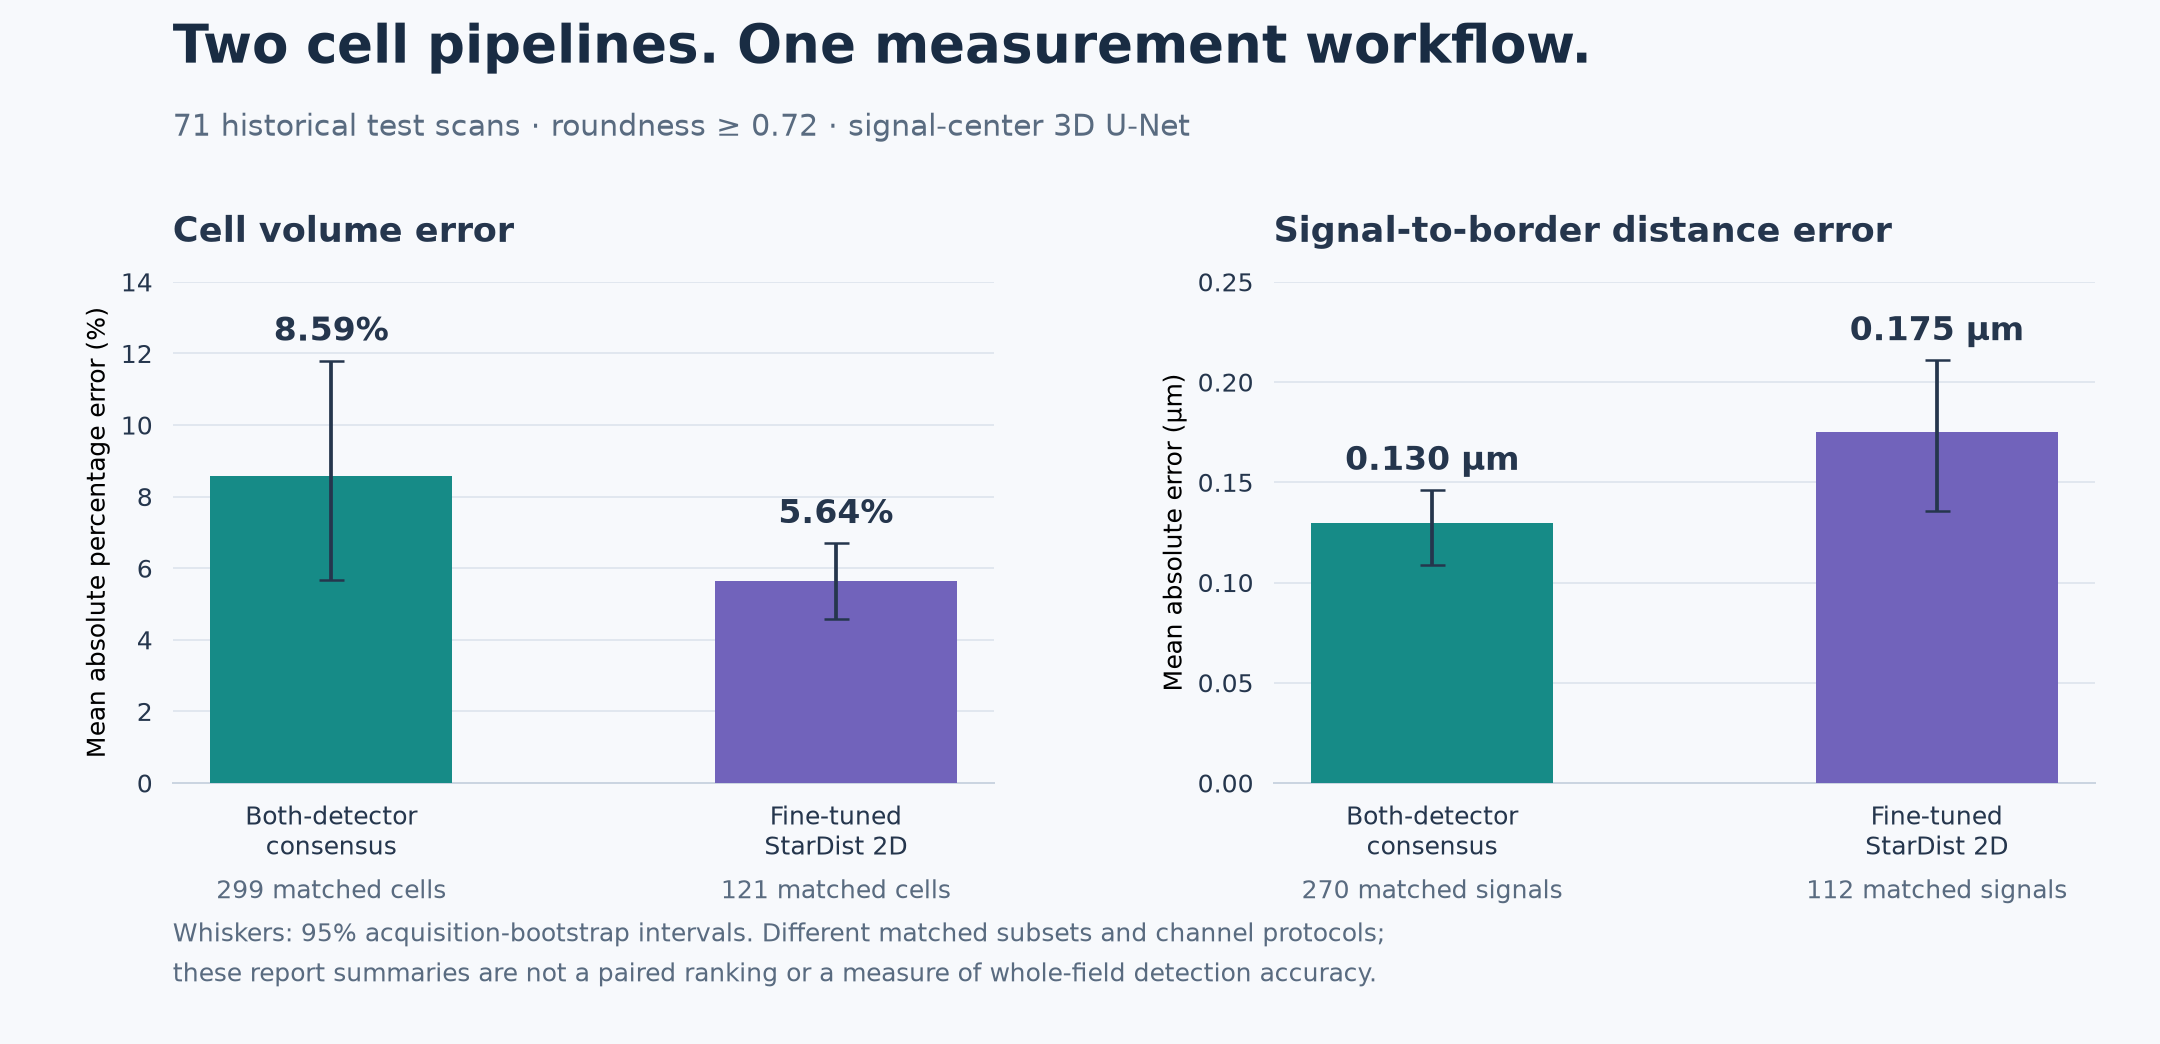
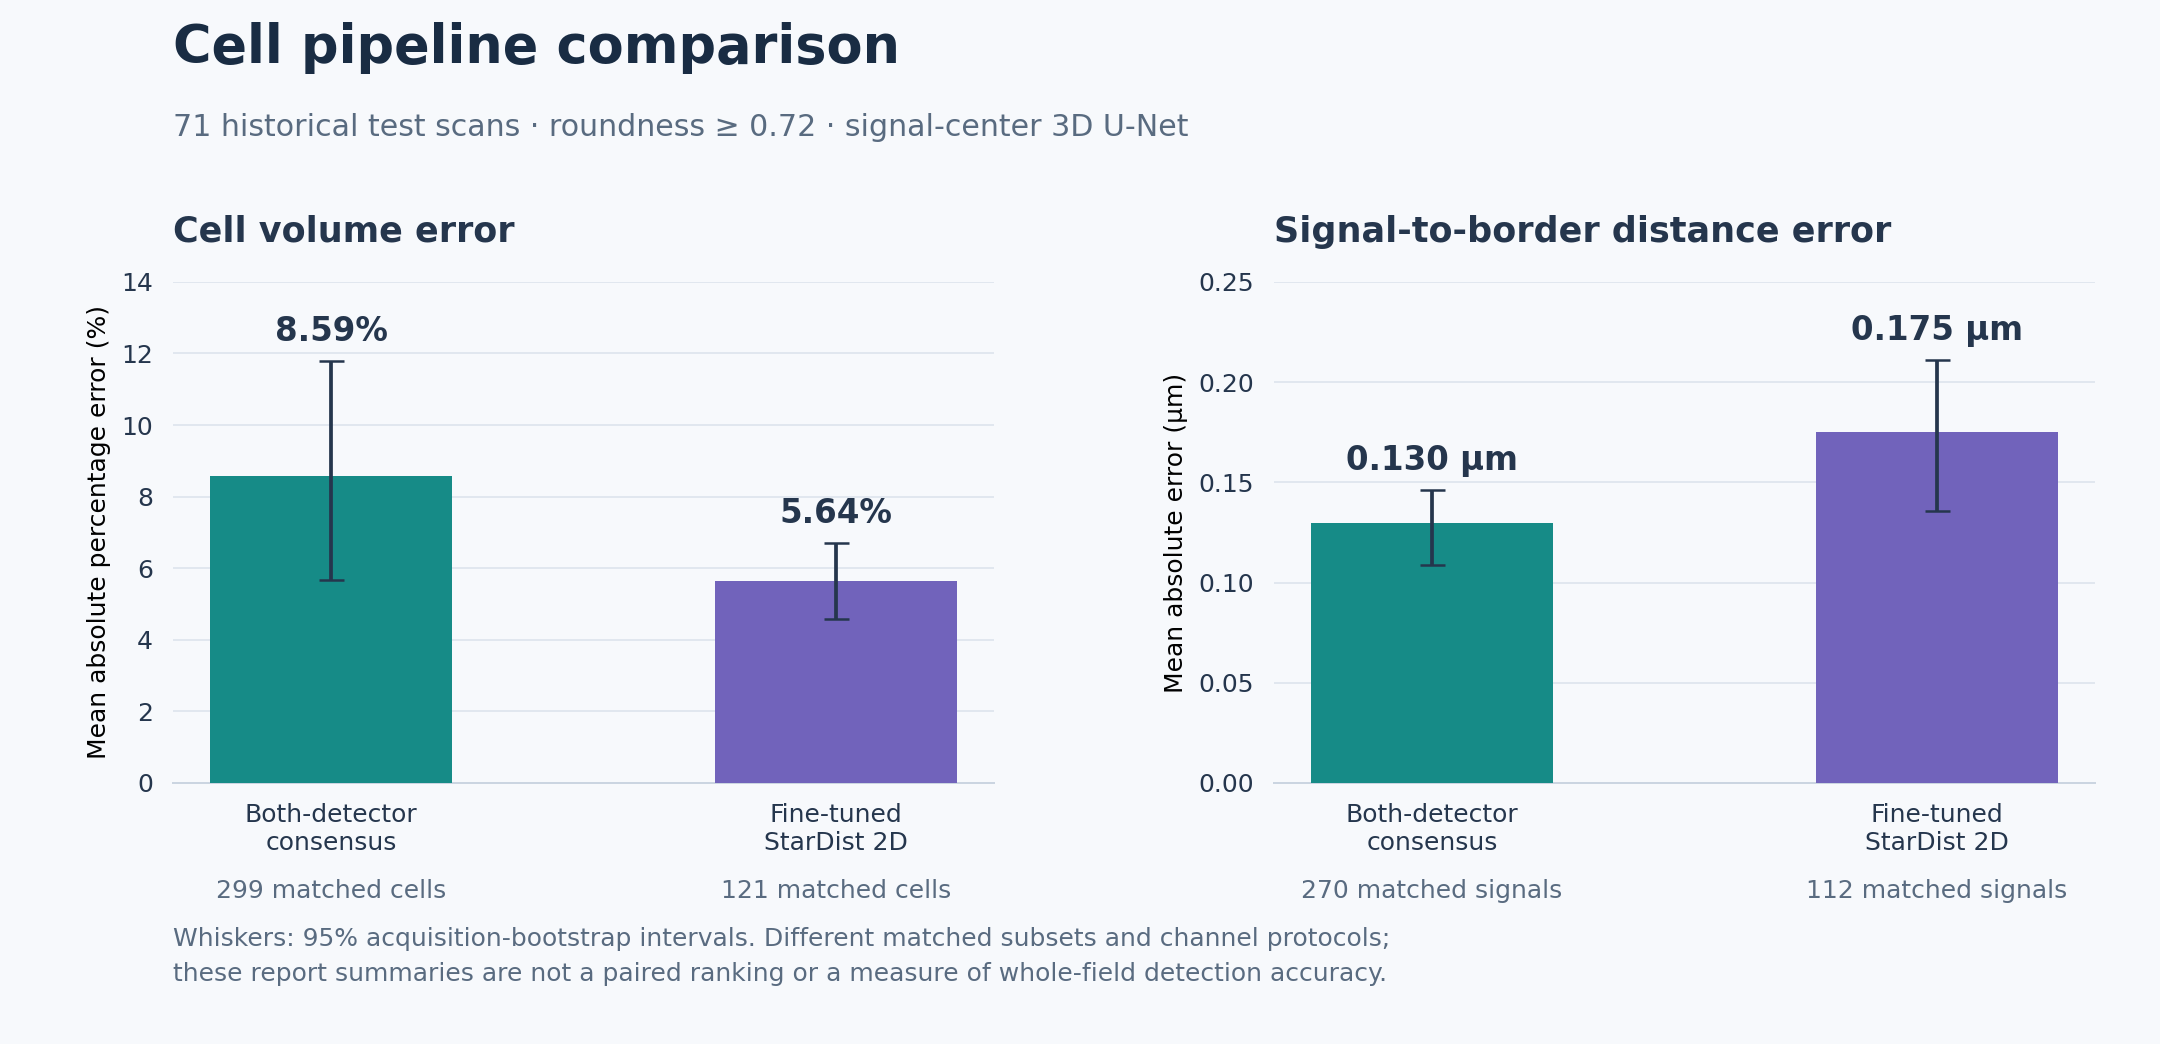
docs: clarify researcher support and simplify comparison chart title

diff --git a/scripts/plot_pipeline_comparison.py b/scripts/plot_pipeline_comparison.py
@@ -44,7 +44,7 @@ def main():
         axis.tick_params(length=0, labelcolor='#25364d', pad=8)
         axis.grid(axis='y', color='#e1e7ef', zorder=0)
         axis.set_axisbelow(True)
-    figure.text(.08, .94, 'Two cell pipelines. One measurement workflow.', fontsize=21, weight='bold', color='#192c43')
+    figure.text(.08, .94, 'Cell pipeline comparison', fontsize=21, weight='bold', color='#192c43')
     figure.text(.08, .87, '71 historical test scans · roundness ≥ 0.72 · signal-center 3D U-Net', fontsize=12, color='#596b80')
     figure.text(.08, .06, 'Whiskers: 95% acquisition-bootstrap intervals. Different matched subsets and channel protocols;\n'
                 'these report summaries are not a paired ranking or a measure of whole-field detection accuracy.',

diff --git a/README.md b/README.md
@@ -1,8 +1,15 @@
 # FISH Analysis
 
-Desktop analysis of Imaris microscopy scans: detect cell contours and fluorescent
-signals, measure the shortest 3D signal-to-cell-border distances, review annotations,
-and export Imaris, Excel and CSV results. Original scans and annotations are read-only.
+FISH Analysis is a set of desktop tools that helps researchers analyze Imaris
+microscopy scans by automating the tedious work of tracing cell contours, locating
+fluorescent signals, and measuring the shortest 3D distances from signals to cell
+volume surfaces. It is designed to support researchers, not replace their judgment:
+automatic results can be reviewed and corrected before use. The repository includes
+three main programs: **Analysis** processes scans, lets users review and edit results,
+and exports Imaris, Excel and CSV files; **Viewer** displays scans and annotations
+in 2D and 3D, applies saved models, and provides model-training tools;
+**Training Annotator** lets users paint cell-border examples for training data.
+Original scans and annotations are preserved; edits and results are saved separately.
 
 **[Download a release](https://github.com/Rokoel/cell-nn/releases/latest)** ·
 **[Analysis guide](docs/fish-analysis.md)** · **[Documentation](docs/README.md)** ·
